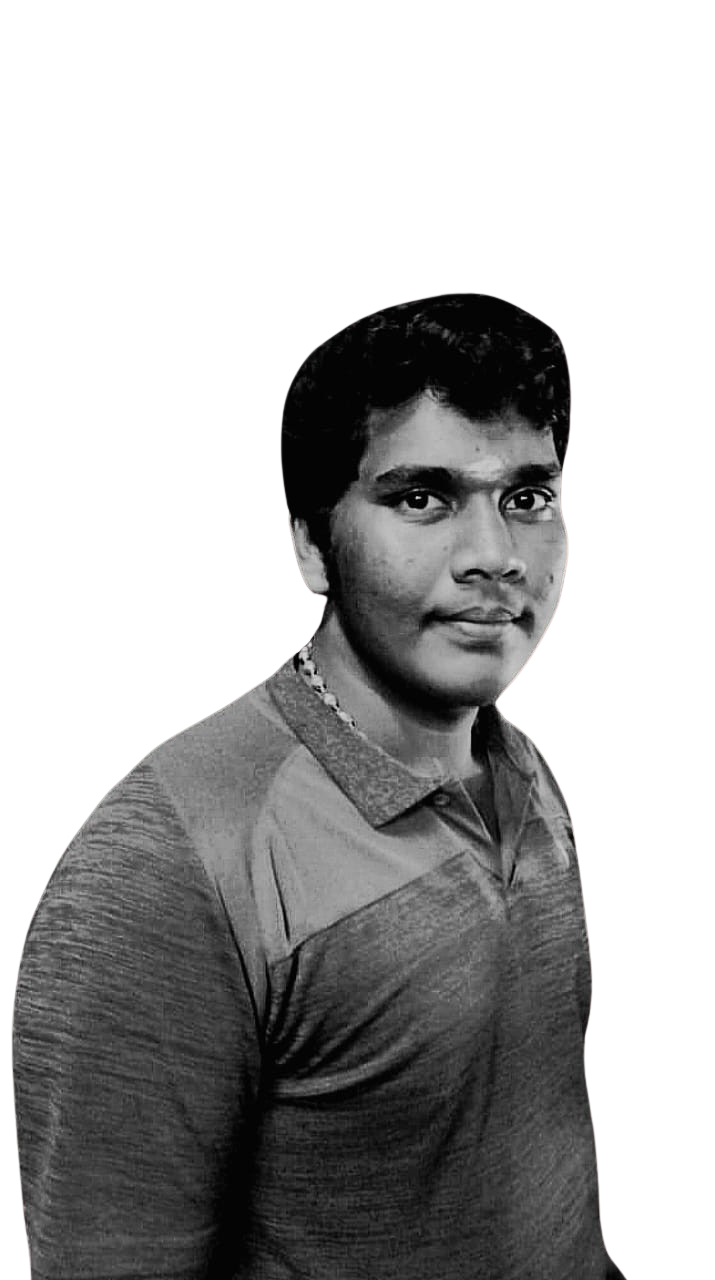
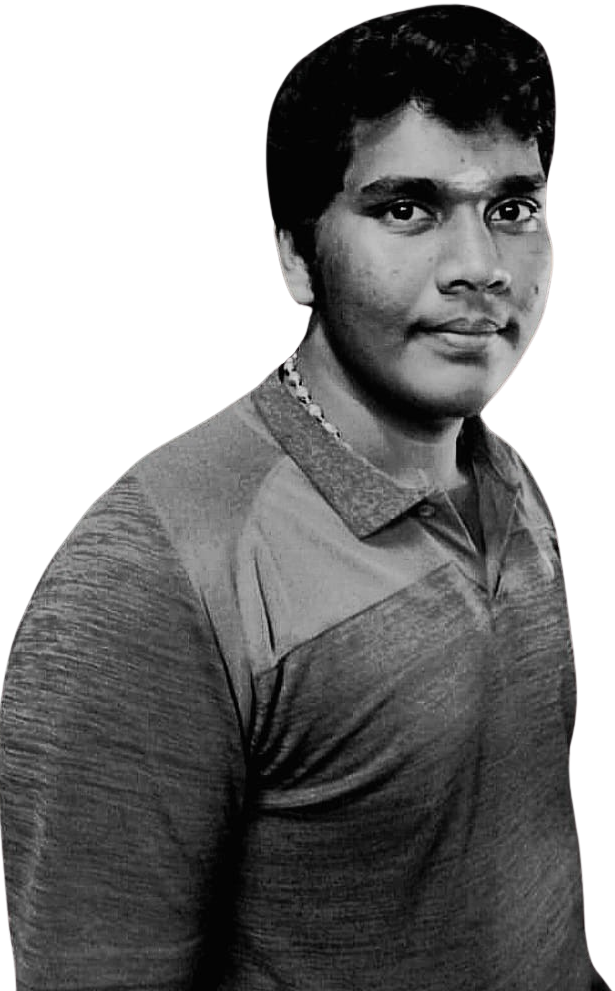
update

diff --git a/src/Components/hero.js b/src/Components/hero.js
@@ -1,4 +1,4 @@
-import bala from "D:/githubreptasks/bv_portfolio/src/assets/images/hero-removebgmain.png";
+import bala from "D:/githubreptasks/bv_portfolio/src/assets/images/hero-removebg.png";
 import { ReactComponent as SvgCurve } from "D:/githubreptasks/bv_portfolio/src/assets/svg/SVG curve.svg";
 import { useEffect, useRef } from "react";
 import React from 'react';
